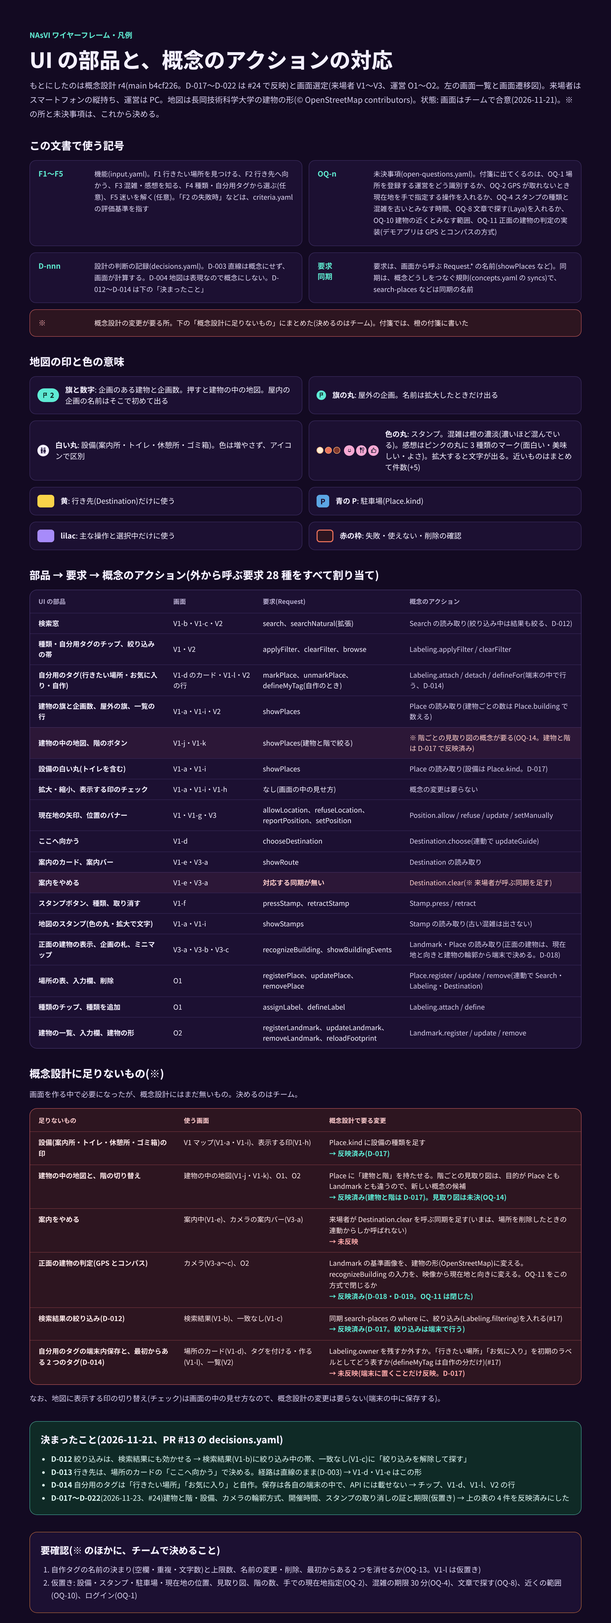
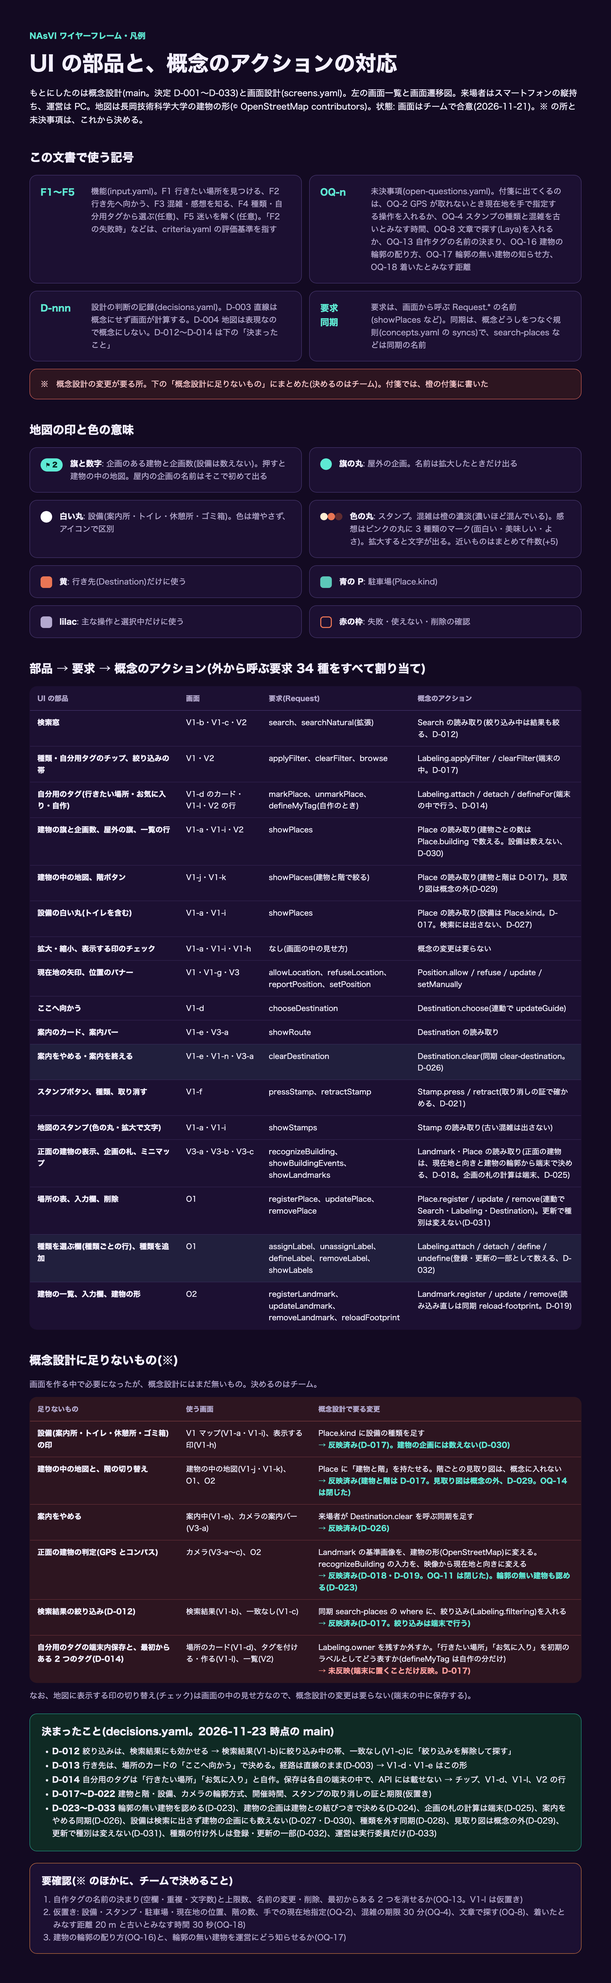
ワイヤーフレームを main の決定(D-017〜D-033)に合わせる
- wireframe.md: 案内をやめる(D-026)、設備は建物の企画に数えない(D-030)、見取り図は概念の外(D-029)、運営は実行委員だけ(D-033)、種類の付け外しと更新で種別を変えない(D-028・D-031・D-032)、輪郭の無い建物(D-023)、企画の札の計算は端末(D-025)、OQ-18 を反映。版 45
- legend.png: 表と※の一覧を main に合わせて描き直した
- O1-places.png・O2-landmarks.png: 更新で種別を出さず、種類は CheckRow で複数選ぶ形に。O2 の見取り図の注記と、運営の認証の表示を直した
- screen-selection.md: 同じ食い違いを直した

Changed region(s): [[0.031, 0.0, 0.9621, 0.9974], [0.2793, 0.4364, 0.3724, 0.5922], [0.5276, 0.0935, 0.5586, 0.1247]]

diff --git a/doc/screen-design/screen-selection.md b/doc/screen-design/screen-selection.md
@@ -1,6 +1,6 @@
 # NAsVI 画面選定
 
-作成: 2026-11-20 / 更新: 2026-11-23(概念設計の D-017〜D-022 に合わせて ※ を直した。2026-11-22 にカメラを GPS とコンパスの方式に、言葉をそろえた) / 状態: 画面の分け方と画面の一覧は、チームで合意(2026-11-21)。※ の所と未決事項(OQ-n)は、これから決める
+作成: 2026-11-20 / 更新: 2026-11-23(概念設計の D-017〜D-033 に合わせて ※ を直した。2026-11-22 にカメラを GPS とコンパスの方式に、言葉をそろえた) / 状態: 画面の分け方と画面の一覧は、チームで合意(2026-11-21)。※ の所と未決事項(OQ-n)は、これから決める
 
 - もとにした概念設計: `concept-design/concepts.yaml` と `doc/concept-design.md`(r4、main `b4cf226`)
 - 画面のワイヤーフレーム: [wireframe.md](wireframe.md)(画像と付箋)。表の「ワイヤーフレーム」列の V1-a などは、ワイヤーフレームの画面の名前
@@ -9,7 +9,7 @@
 この文書で使う記号
 
 - **F1〜F5**: 機能(`input.yaml`)。F1 行きたい場所を見つける、F2 行き先へ向かう、F3 混雑・感想を知る、F4 種類・自分用タグから選ぶ(任意)、F5 迷いを解く(任意)。「F2 の失敗時」などは、`criteria.yaml` の評価基準を指す
-- **OQ-n**: 未決事項(`open-questions.yaml`)。この文書に出てくるのは OQ-1(場所を登録する運営をどう識別するか)、OQ-2(GPS が取れないとき、現在地を手で指定する操作を入れるか)、OQ-13(自作タグの名前の決まりと上限)
+- **OQ-n**: 未決事項(`open-questions.yaml`)。この文書に出てくるのは OQ-2(GPS が取れないとき、現在地を手で指定する操作を入れるか)、OQ-13(自作タグの名前の決まりと上限)
 - **D-nnn**: 設計の判断の記録(`decisions.yaml`)。この文書に出てくるのは D-004(地図は表現なので概念にしない)、D-012(絞り込みは検索結果にも効かせる)、D-013(行き先は場所のカードの「ここへ向かう」で決める)、D-014(自分用のタグは「行きたい場所」「お気に入り」と自作。保存は各自の端末の中)
 - **同期**: 概念どうしをつなぐ規則(`concepts.yaml` の syncs)。search-places などは同期の名前
 - **※**: 概念設計の変更が要る所。1 章の後半の表にまとめた(決めるのはチーム)
@@ -24,7 +24,7 @@
 | Search(検索) | 名前の一部から、目当ての場所を見つける | 名前の一部で探す(search)、文章で探す(searchNatural、拡張)。絞り込み中は、結果も絞る(D-012) | なし(場所を登録すると、自動で検索の対象に入る) |
 | Labeling(種類・自分用タグ) | 種類や自分用のタグで絞って選ぶ | 種類やタグで絞る・解除する(applyFilter・clearFilter・browse)、「行きたい場所」「お気に入り」・自作のタグを付ける・外す(markPlace・unmarkPlace)、自作のタグを作る(defineMyTag)。タグは各自の端末の中に保存し、API には載せない(D-014) | 種類を定める・場所に付ける(defineLabel・assignLabel) |
 | Position(現在地) | 自分がいま会場のどこにいるかを知る | 位置の利用を許可・拒否する(allowLocation・refuseLocation)、手で現在地を指定する(setPosition、OQ-2)。現在地の更新(reportPosition)は端末が自動で行う | なし |
-| Destination(行き先) | 向かう先を 1 つ決め、方角と距離の案内を受ける | 行き先を決める(chooseDestination)、案内を見る(showRoute)、案内をやめる(※) | なし |
+| Destination(行き先) | 向かう先を 1 つ決め、方角と距離の案内を受ける | 行き先を決める(chooseDestination)、案内を見る(showRoute)、案内をやめる(D-026) | なし |
 | Stamp(スタンプ) | 足元にスタンプを押して混雑や感想を共有し、他の人がそれを見て場所を選ぶ | スタンプを押す(pressStamp)、取り消す(retractStamp)、地図で見る(showStamps) | なし |
 | Landmark(建物) | いま見ている建物がどれかを知り、迷いを解く | カメラを向けて、正面の建物の名前とその企画を知る(recognizeBuilding・showBuildingEvents)。正面の建物は、現在地と向きと建物の輪郭から端末で決める(D-018) | 建物と建物の形を登録・編集・削除する(registerLandmark・updateLandmark・removeLandmark) |
 
@@ -35,8 +35,8 @@
 | 足りないもの | 使う画面 | 概念設計で要る変更 | 状態(2026-11-23) |
 |---|---|---|---|
 | 設備(案内所・トイレ・休憩所・ゴミ箱)の印 | V1 マップ、表示する印 | Place.kind に設備の種類を足す | 反映済み(D-017。設備は検索・絞り込みの対象にしない) |
-| 建物の中の地図と、階の切り替え | 建物の中の地図、O1、O2 | Place に「建物と階」を持たせる。階ごとの見取り図は、目的が Place とも Landmark とも違うので、新しい概念の候補 | 建物と階は反映済み(D-017)。見取り図は未決(OQ-14) |
-| 案内をやめる | 案内中 | 来場者が Destination.clear を呼ぶ同期を足す(いまは、場所を削除したときの連動からしか呼ばれない) | 未反映 |
+| 建物の中の地図と、階の切り替え | 建物の中の地図、O1、O2 | Place に「建物と階」を持たせる。階ごとの見取り図は、目的が Place とも Landmark とも違うので、新しい概念の候補 | 反映済み(建物と階は D-017)。見取り図は概念に入れない(D-029。OQ-14 は閉じた) |
+| 案内をやめる | 案内中 | 来場者が Destination.clear を呼ぶ同期を足す | 反映済み(D-026。同期 clear-destination) |
 | 正面の建物の判定(GPS とコンパス) | カメラ(V3-a〜c)、O2 | Landmark の基準画像(image)を、建物の形(OpenStreetMap)に変える。recognizeBuilding の入力を、映像から現在地と向きに変える。OQ-11 をこの方式で閉じるか(デモアプリは 2026-11-17 からこの方式) | 反映済み(D-018・D-019。Landmark は footprint を持つ。OQ-11 は閉じた。輪郭の配り方は OQ-16) |
 | 検索結果の絞り込み(D-012) | 検索結果、一致なし | 同期 search-places の where に、絞り込み(Labeling.filtering)を入れる(#17) | 反映済み(D-017。絞り込みは端末で行う) |
 | 自分用のタグの端末内保存と、最初からある 2 つのタグ(D-014) | 場所のカード、タグを付ける・作る、V2 一覧 | Labeling.owner を残すか外すか。「行きたい場所」「お気に入り」を初期のラベルとしてどう表すか(defineMyTag は自作の分だけになる)(#17) | 未反映(端末に置くことだけ反映。D-017) |
@@ -53,15 +53,15 @@
 | └ 検索結果(V1 に重ねる) | Search | Place(名前・場所・距離)、Labeling(絞り込み中の表示) | 名前の一部で探す、結果を押してカードを開く、絞り込みを解除する、一致しないときは別の言葉で探すか一覧へ移る | 同期 search-places は Search と Place を同時に読むので、同じ所に出す。結果から場所のカードまで画面を変えずに進めるよう、地図の上に重ねた。絞り込み中は検索結果も絞る(D-012)ので、帯でそのことを示し、解除できるようにした。一致しないとき(F1 の失敗時)も、同じ場所で次の手を示す | V1-b、V1-c |
 | └ 場所のカード(V1 に重ねる) | Place(1 件) | Destination、Labeling(行きたい場所・お気に入り) | 場所の情報を見る、ここへ向かう、行きたい場所・お気に入りを付ける・外す、タグの画面を開く | 行き先にする・タグを付けるは、どちらも 1 つの場所に対する操作なので、同じカードにまとめた。場所の位置は地図の上で意味を持つので、地図に重ねる。カードを開いただけでは行き先にせず、「ここへ向かう」で決める(D-013)。見るだけ(F1)と向かう(F2)を分けるため | V1-d |
 | └ タグを付ける・作る(V1 に重ねる) | Labeling(自分用のタグ)※ | Place(1 件) | タグを付ける・外す、新しいタグを作る | タグは 1 つの場所に付けるので、場所のカードの「＋ タグ」から開く。自作のタグは名前を入れる欄が要るので、カードとは別のシートにした。タグは端末の中にだけ保存する(D-014)ので、消えることがあると、ここで伝える。名前の決まりと上限は未決(OQ-13) | V1-l |
-| └ 案内中(V1 に重ねる) | Destination | Position、Place | 方角・距離・更新時刻を見る、カメラで見る、案内をやめる ※、着いたら案内を終える | 同期 guide-on-move は Position・Destination・Place を同時に読む。F2(追加の操作なしで位置関係が分かる)を満たすため、別の画面に移さず、カードをそのまま案内の表示に切り替える。行き先の近くに来たら、同じカードを「着きました」に変え、F2 の終わりが分かるようにする | V1-e、V1-n |
+| └ 案内中(V1 に重ねる) | Destination | Position、Place | 方角・距離・更新時刻を見る、カメラで見る、案内をやめる、着いたら案内を終える(どちらも Destination.clear。D-026) | 同期 guide-on-move は Position・Destination・Place を同時に読む。F2(追加の操作なしで位置関係が分かる)を満たすため、別の画面に移さず、カードをそのまま案内の表示に切り替える。行き先の近くに来たら、同じカードを「着きました」に変え、F2 の終わりが分かるようにする | V1-e、V1-n |
 | └ スタンプを押す(V1 に重ねる) | Stamp | Position | 混雑 1〜5 か、感想 3 種類のどれかを押す、取り消す | 同期 press-stamp は Position の現在地を使う。F3(2 操作以内)を満たすため、スタンプボタン → 種類 の 2 操作で押せるシートにした | V1-f |
 | └ 位置が使えない(V1 の状態) | Position | なし | 位置の利用を許可する、地図で現在地を指定する(OQ-2) | 位置の許可・拒否は端末の許可の結果なので、別の画面にはしない。F2 の失敗時の扱い(できなくなることと、代わりにできること)を、地図の上の帯で示す | V1-g |
 | └ 表示する印(V1 に重ねる) | なし(見せ方の設定) | Place(企画・駐車場・設備)、Stamp(混雑・感想) | 地図に出す印をチェックで選ぶ、すべて表示する | どの概念の状態も変えない見せ方の設定なので、概念にはしない。Labeling の絞り込みは場所を選ぶための機能で、目的が違う。そのため、上のチップ列とは別のパネルに分けた | V1-h |
-| └ 建物の中の地図(V1 に重ねる) | Place(建物と階で絞る) | 階ごとの見取り図 ※ | 階を切り替える(最初は 1 階)、企画を押してカードを開く | 屋内の企画の名前は、建物を開いたときに初めて出す。階の切り替えは 1 つの建物の中の操作なので、建物ごとのシートにまとめた | V1-j、V1-k |
+| └ 建物の中の地図(V1 に重ねる) | Place(建物と階で絞る) | 階ごとの見取り図(概念の外。D-029) | 階を切り替える(最初は 1 階)、企画を押してカードを開く | 屋内の企画の名前は、建物を開いたときに初めて出す。階の切り替えは 1 つの建物の中の操作なので、建物ごとのシートにまとめた | V1-j、V1-k |
 | **V2 一覧** | Place(名前と種別) | Labeling(種類やタグで選ぶ・絞り込み・行きたい場所・お気に入り)、Search(検索窓) | 種類やタグで絞る、名前で探す、行きたい場所・お気に入りを付ける、行を押してカードを開く | 概念は V1 の一部なので、統合もできる。それでも分けたのは、評価基準が一覧を求めているため(F1・F5 の失敗時に「一覧から探す」、F4 で「種類を選ぶと一覧が出る」)。地図を見ずに、名前や種類で選ぶ人の入口になる。絞り込みの状態は V1 と共有する | V2 |
 | **V3 カメラ** | Landmark | Place(建物の企画)、Destination(案内バー)、Position | カメラを向ける、建物の企画を押す、向きを手で合わせる、一覧かマップへ移る | カメラの映像の上に、方向と距離の札を重ねるので、画面全体を使う。正面の建物は、現在地と向きと建物の形から決める(画像の認識は使わない。D-018)。映像と位置は端末の中で処理し、送信しない。F5 は任意の機能なので、外すときに画面ごと外せるよう分けた。案内バーを重ねれば、カメラで向かう道案内も兼ねる | V3-a、V3-b、V3-c |
-| **O1 場所の登録・管理**(運営) | Place | Labeling(種類)、建物と階 | 場所を登録・編集・削除する、種類を定める・付ける | 実行者が運営なので(同期の条件「実行者が場所を管理できる」、OQ-1)、来場者の画面と分けた。種類は場所を登録するときに付けるので、同じ画面にした。検索への登録は同期が自動で行うので、画面は要らない | O1 |
-| **O2 建物の登録・管理**(運営) | Landmark | 階ごとの見取り図 ※ | 建物と建物の形を登録・編集・削除する、階の見取り図を登録する | O1 と同じ運営の操作だが、建物の形(OpenStreetMap)という別のデータを扱う。F5 を外すときに外しやすいよう、O1 と分けた | O2 |
+| **O1 場所の登録・管理**(運営) | Place | Labeling(種類)、建物と階 | 場所を登録・編集・削除する、種類を定める・付ける・外す | 実行者が運営なので(同期の条件「実行者が場所を管理できる」。運営は実行委員だけ、D-033)、来場者の画面と分けた。種類は場所を登録するときに付けるので、同じ画面にした。検索への登録は同期が自動で行うので、画面は要らない | O1 |
+| **O2 建物の登録・管理**(運営) | Landmark | 階ごとの見取り図の状態(概念の外。D-029) | 建物と建物の形を登録・編集・削除する、階の見取り図を登録する | O1 と同じ運営の操作だが、建物の形(OpenStreetMap)という別のデータを扱う。F5 を外すときに外しやすいよう、O1 と分けた | O2 |
 
 ## 3. 画面遷移図
 

diff --git a/doc/screen-design/wireframe.md b/doc/screen-design/wireframe.md
@@ -1,6 +1,6 @@
 # NAsVI ワイヤーフレーム
 
-状態: 画面はチームで合意(2026-11-21)。※ の所と未決事項は、これから決める / 書き出し: 2026-11-23(版 44。カメラを GPS とコンパスの方式に、机上の点検と画面への当てはめの直しを反映。V3-c の向きの表示の矛盾を直した。概念設計の D-017〜D-022 に合わせて ※ を直した)
+状態: 画面はチームで合意(2026-11-21)。※ の所と未決事項は、これから決める / 書き出し: 2026-11-23(版 45。概念設計の D-017〜D-033 に合わせて、※ と未決の書き方を直した: 案内をやめる(D-026)、建物の企画に設備を数えない(D-030)、階ごとの見取り図は概念にしない(D-029)、運営は実行委員だけ(D-033)、運営が場所に種類を付ける・外す欄(D-028・D-031・D-032)。凡例・O1・O2 の画像を描き直した。版 44: カメラを GPS とコンパスの方式に、机上の点検と画面への当てはめの直しを反映。V3-c の向きの表示の矛盾を直した)
 
 - 画面の選び方(概念の一覧・画面一覧・画面遷移図)は [screen-selection.md](screen-selection.md)、机上の点検の結果は [desk-check.md](desk-check.md)
 - 元のデータは Claude の Design キャンバス(https://claude.ai/artifact/ARBxEgg7ybog3kZK7Qzpo2 )。このページの画像は、そこから書き出したもの。直すときはキャンバスを直し、画像を書き出し直す
@@ -33,7 +33,7 @@
 - **理由**: 位置を持つ概念は、どれも地図に重ねて描ける(D-004)。F2(行き先を決めたら、追加の操作なしで方角と距離が出る)、F3(スタンプは 2 操作以内)、F4(絞ると地図の印も絞られる)を満たすため、1 つの画面にまとめた
 - **要求**: showPlaces、showStamps、reportPosition
 - 建物の形は長岡技術科学大学の OpenStreetMap(出典を画面に表示)
-- 企画のある建物に旗と企画数。押すと建物の中の地図(V1-j)
+- 企画のある建物に旗と企画数。押すと建物の中の地図(V1-j)。企画数に設備は数えない(D-030)
 - スタンプは色の丸(混雑は橙の濃淡、感想は 3 種類のマーク)
 - 設備(案内所・トイレ・休憩所・ゴミ箱)は白い丸。位置は仮
 - チップは横にスクロール。種類のあとに自分用のタグ(行きたい場所・お気に入り、D-014)
@@ -54,7 +54,7 @@
 - この盤は「行きたい場所」で絞り込み中の状態(解除すると 3 件)
 - 「文章で探す」(searchNatural)は Laya の拡張(OQ-8)
 
-> **決定(D-012): 絞り込み中は、検索結果も絞る。concepts.yaml の同期 search-places は、まだ直していない(#17 でチームが決める)**
+> **決定(D-012): 絞り込み中は、検索結果も絞る。concepts.yaml の同期 search-places に反映済み(D-017 の (5)。絞り込みは端末で行う)**
 
 ### V1-c 一致なし
 
@@ -82,6 +82,7 @@
 - 検索結果、一覧、建物の中の地図(V1-k)、カメラ(V3)から開く
 - 行きたい場所・お気に入りは押すと切り替わる。自作のタグは「＋ タグ」から(V1-l)
 - タグは端末の中に保存し、他の来場者には見えない(D-014)
+- 開催時間は Place.hours(開始と終了の組、複数可)から、画面の側で「両日 10:00〜16:00」の文字列にして出す(D-020)
 
 > **決定(D-013): カードを開いただけでは行き先にせず、「ここへ向かう」を押したときに行き先にする。経路は直線のまま(D-003)**
 
@@ -93,15 +94,17 @@
 
 - **主役**: Destination
 - **一緒に表示**: Position、Place
-- **操作**: 方角・距離・更新時刻を見る、カメラで見る、案内をやめる ※
+- **操作**: 方角・距離・更新時刻を見る、カメラで見る、案内をやめる
 - **理由**: 同期 guide-on-move は Position・Destination・Place を同時に読む。F2(追加の操作なしで位置関係が分かる)を満たすため、別の画面に移さず、カードをそのまま案内の表示に切り替える
-- **要求**: showRoute
+- **要求**: showRoute、clearDestination
 - 現在地から行き先へは直線の点線(D-003。道なりの経路は作らない)
-- 更新時刻を出す(F2: 古いかが分かる)
+- 更新時刻を出す(F2: 古いかが分かる)。古いとみなす時間は 30 秒で仮置き(OQ-18)
 - 行き先の近くに来たら V1-n(着いた)に変わる
 
-> **※ 概念設計に足りないもの: 案内をやめる**
-> - **要る変更**: 来場者が Destination.clear を呼ぶ同期を足す(いまは、場所を削除したときの連動からしか呼ばれない)。決めるのはチーム
+> **反映済み(D-026): 案内をやめる**
+> - 来場者が Destination.clear を呼ぶ同期 clear-destination(要求 clearDestination)を、概念に足した
+> - 着く前は「案内をやめる」、着いたあとは「案内を終える」と、言葉だけ分ける(同じ操作。画面の側)
+> - 行き先は端末の中に置き、API には載せない(API-5)
 
 ### V1-f スタンプを押す
 
@@ -151,7 +154,8 @@
 > **反映済み(D-017): 設備(案内所・トイレ・休憩所・ゴミ箱)の印**
 > - Place.kind に設備 4 種が入った(#24)
 > - 設備は検索・絞り込みの対象にしない
-> - 建物の企画(同期 show-building-events・show-no-events)で設備を数えないかは、概念設計で確かめる
+> - 建物の企画(同期 show-building-events・show-no-events)に設備は含めない(D-030)
+> - 検索の索引にも入れない。探すときは、この「表示する印」を使う(D-027)
 
 ### V1-i マップ・拡大
 
@@ -172,7 +176,7 @@
 **V1-j 建物の中の地図・1階(V1 に重ねる)**
 
 - **主役**: Place(建物と階で絞る)
-- **一緒に表示**: 階ごとの見取り図 ※(OQ-14)
+- **一緒に表示**: 階ごとの見取り図(概念の外。D-029)
 - **操作**: 階を切り替える(最初は 1 階)、企画を押してカードを開く
 - **理由**: 屋内の企画の名前は、建物を開いたときに初めて出す。階の切り替えは 1 つの建物の中の操作なので、建物ごとのシートにまとめた
 - **要求**: showPlaces(建物と階で絞る)
@@ -180,11 +184,10 @@
 - この建物の企画はお化け屋敷(2F 廊下)だけなので、1 階は「この階に企画はありません」と 2 階への案内
 - 見取り図とトイレの位置は仮。階のボタンは実際に切り替わる
 
-> **※ 概念設計に足りないもの: 階ごとの見取り図(使う画面: V1-j・V1-k、O2)**
-> - 建物と階は反映済み(D-017。Place.building・floor)
-> - 見取り図は、目的(建物の中のどこに何があるかを知る)が Place とも Landmark とも違うので、新しい概念にするかが未決(OQ-14)
-> - 建物ごとの企画数は、Place.building で数えられる
-> - 決めるのはチーム
+> **決定(D-029): 階ごとの見取り図は、概念に入れない(OQ-14 は閉じた)。建物の付属データとして、API と画面で扱う(使う画面: V1-j・V1-k、O2)**
+> - 建物と階は概念に入っている(D-017。Place.building・floor)
+> - 見取り図は、来場者が見るだけ。登録・差し替え・削除は運営が API で行い、建物を削除すると見取り図も消える(API-29・30)
+> - 建物ごとの企画数は、Place.building で数える。設備は数えない(D-030)
 
 ### V1-k 建物の中の地図・2階
 
@@ -231,9 +234,9 @@
 
 - 行き先の近くに来たら、案内のカードを「着きました」に変える(机上の点検 ② の対処。F2 の終点)
 - 屋内の企画は、建物の中の地図(V1-k)で階と場所を確かめられる
-- 「案内を終える」で行き先を外す(Destination.clear。※ 来場者が呼ぶ同期はまだ無い)
+- 「案内を終える」で行き先を外す(Destination.clear。同期 clear-destination。D-026)
 
-> **未決(新しい OQ の候補): 着いたとみなす距離。この盤では 20 m で仮置き。GPS の精度(±8 m ほど)より大きくする必要がある。チームで決め、open-questions.yaml に載せる**
+> **未決(OQ-18): 着いたとみなす距離(この盤では 20 m で仮置き)と、現在地が古いとみなす時間(30 秒で仮置き)。距離は GPS の精度(±8 m ほど)より大きくする必要がある。どちらも端末の計算で、概念の状態には入れない(D-026)**
 
 ### V1-o マップ・絞り込み 0 件
 
@@ -276,6 +279,9 @@
 - **理由**: カメラの映像の上に、方向と距離の札を重ねるので、画面全体を使う。正面の建物は、現在地と向きと建物の形(OpenStreetMap)から端末で決める。映像と位置は端末の中で処理し、送信しない。F5 は任意の機能なので、外すときに画面ごと外せるよう分けた
 - **要求**: recognizeBuilding、showBuildingEvents、showRoute
 - 画像の認識は使わない。Landmark は建物の輪郭(footprint)を持つ(D-018。OQ-11 は閉じた。画像の認識は拡張として残す)
+- 輪郭の無い建物も登録できるが、正面の建物としては出ない(D-023。運営への知らせ方は OQ-17)
+- 建物の企画は、場所の建物(Place.building)が一致するもので決める。設備は含めず、屋外の企画(建物なし)は出ない(D-024・D-030)
+- 企画の札の方向・距離・「建物の奥か」は、端末が現在地・向き・輪郭・場所の位置から計算する。概念の外(D-025)
 - 建物の奥にある企画は、札を薄くして「建物の奥」と添える
 - 右上のミニマップで、現在地と向いている方向を出す
 - 建物の企画を押すと V1-d へ
@@ -287,8 +293,8 @@
 **V3-b 正面の建物に企画なし(V3 カメラの状態。主役・一緒に表示・操作は V3-a と同じ)**
 
 - **要求**: showBuildingEvents(同期 show-no-events)
-- 建物は分かったが企画が無い、をはっきり出す(F5)
-- 「近くの企画」の範囲 near は OQ-10
+- 建物は分かったが企画が無い、をはっきり出す(F5)。設備だけが登録された建物も「企画が無い」(D-030)
+- 建物の企画は建物との結びつきで決める(D-024)ので、距離の範囲 near は概念から外れた(OQ-10 の near は閉じた)。この盤の「近くの企画」(屋外の企画)は、端末が現在地から並べる案で、範囲は決まるまで仮置き【推論】
 
 ### V3-c カメラ・向きが分からない
 
@@ -310,13 +316,15 @@
 
 - **主役**: Place
 - **一緒に表示**: Labeling(種類)、建物と階
-- **操作**: 場所を登録・編集・削除する、種類を定める・付ける
-- **理由**: 実行者が運営なので(同期の条件「実行者が場所を管理できる」、OQ-1)、来場者の画面と分けた。種類は場所を登録するときに付けるので、同じ画面にした。検索への登録は同期が自動で行うので、画面は要らない
-- **要求**: registerPlace / updatePlace / removePlace、defineLabel / assignLabel
+- **操作**: 場所を登録・編集・削除する、種類を定める・付ける・外す
+- **理由**: 実行者が運営なので(同期の条件「実行者が場所を管理できる」。運営は実行委員だけ、D-033)、来場者の画面と分けた。種類は場所を登録するときに付けるので、同じ画面にした。検索への登録は同期が自動で行うので、画面は要らない
+- **要求**: registerPlace / updatePlace / removePlace、defineLabel / assignLabel / unassignLabel
 - 登録すると検索にも出る(同期 index-on-register)
 - 削除の確認で、連動して起きること(検索・一覧から消える、行き先にしている人の案内が終わる)を先に見せる
-- 建物と階の欄は、まだ描いていない(D-017 で概念に入ったので、次に足す)
-- ログインの有無は OQ-1
+- 建物と階は、入力欄の「建物」「階」で選ぶ(D-017 で概念に入った。モックのデータに階は無い)
+- 種類は、入力欄の「種類を選ぶ」欄に、種類ごとの 1 行(CheckRow)を並べて、複数選ぶ。付ける・外すは、場所の登録・更新の一部として数える(D-028・D-032)
+- 種別(企画・駐車場)は登録のときに選び、更新では欄を出さない。登録後に種別は変えられない(変えるときは削除して登録し直す。D-031)。種別は表の「種別」列で見る
+- 運営の画面は、運営(実行委員)だけが Cloudflare Access を通して使う。出展者の編集は今回やらない(D-033。OQ-1 は閉じた)
 
 ### O2 建物の登録・管理(運営・PC)
 
@@ -325,12 +333,13 @@
 **O2 建物の登録・管理(運営・PC)**
 
 - **主役**: Landmark
-- **一緒に表示**: 階ごとの見取り図 ※(OQ-14)
+- **一緒に表示**: 階ごとの見取り図の状態(概念の外。D-029)
 - **操作**: 建物と建物の形を登録・編集・削除する、階の見取り図を登録する
 - **理由**: O1 と同じ運営の操作だが、建物の形(OpenStreetMap)という別のデータを扱う。F5 を外すときに外しやすいよう、O1 と分けた
 - **要求**: registerLandmark / updateLandmark / removeLandmark、reloadFootprint
 - 建物の形(輪郭)は OpenStreetMap を正にし、運営は描かない・直さない。「形を読み込み直す」は同期 reload-footprint(D-018・D-019)
-- 階ごとの見取り図の欄は、見取り図を概念にするか(OQ-14)が決まってから
+- 階ごとの見取り図の欄は、概念の外の付属データ(D-029。OQ-14 は閉じた)。登録・差し替えは概念の要求ではなく、API(PUT・DELETE /landmarks/{landmarkId}/floors/{floor}/plan)で行う
+- 輪郭が取れなかった建物も登録できる。その建物は「形なし(カメラの正面に出ない)」と出す(D-023)。運営への知らせ方は OQ-17
 - 輪郭を端末へ同梱するか、API から返すかは OQ-16
 
 ## ライト配色・色の例・共通の地図
